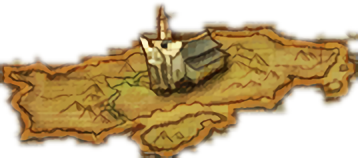
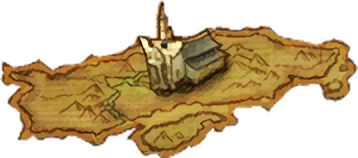
Pulse+ map: zone highlights use the game sprites' own cut-out (no spill), the Silentera tunnel gets the game's swirl marker lit on hover

Changed region(s): [[0.0, 0.0, 1.0, 1.0]]

diff --git a/launcher/src/ui/map/WorldLayer.tsx b/launcher/src/ui/map/WorldLayer.tsx
@@ -14,6 +14,7 @@ interface GlobePart { region: string; part: string; frame: [number, number, numb
 interface WorldZone {
   code: string; map_id: string | null; layer: number | null; frame: [number, number, number, number];
   highlight: [number, number, number, number] | null; highlight_file: string; label: [number, number, number, number] | null;
+  icon?: string; // a zone the coloured map has no highlight for (the Silentera tunnel): the game's marker, lit on hover
 }
 interface Region { title: string; image: string; size: [number, number]; zones: WorldZone[] }
 export const world = JSON.parse(worldJson) as { globe: { size: [number, number]; parts: GlobePart[] }; regions: Record<string, Region> };
@@ -138,7 +139,7 @@ function RegionMap({ size, region, onZone }: { size: { w: number; h: number }; r
   // under the breadcrumb (TOP), 20 px from the other edges; at most the pictures' own size (2x)
   const k = Math.min((size.w - 40) / rw, (size.h - TOP - 20) / rh, 2);
   const left = (size.w - rw * k) / 2, top = TOP + (size.h - TOP - 20 - rh * k) / 2;
-  const files = useMemo(() => [r.image, ...r.zones.map((z) => z.highlight_file).filter(Boolean)], [r]);
+  const files = useMemo(() => [r.image, ...r.zones.flatMap((z) => [z.highlight_file, z.icon ?? ""]).filter(Boolean)], [r]);
   const urls = usePictures(files);
   const masks = useMasks(urls, r.zones.map((z) => z.highlight_file).filter(Boolean));
   const [hover, setHover] = useState<string | null>(null);
@@ -169,6 +170,11 @@ function RegionMap({ size, region, onZone }: { size: { w: number; h: number }; r
           <img key={z.code} className={`world-zone-light${hover === z.code ? " on" : ""}`} src={urls[z.highlight_file]} alt="" draggable={false}
             style={{ left: left + hx * k, top: top + hy * k, width: hw * k, height: hh * k }} />
         ) : null;
+      })}
+      {r.zones.filter((z) => z.icon && urls[z.icon]).map((z) => {
+        const [fx, fy, fw, fh] = z.frame;
+        return <img key={`${z.code}-icon`} className={`world-zone-icon${hover === z.code ? " on" : ""}`} src={urls[z.icon!]} alt="" draggable={false}
+          style={{ left: left + (fx + fw / 2) * k, top: top + (fy + fh / 2) * k, width: 44 * k, height: 44 * k }} />;
       })}
       {r.zones.filter((z) => z.map_id).map((z) => {
         const [lx, ly, lw, lh] = z.label ?? z.frame;

diff --git a/launcher/src/ui/map/map.css b/launcher/src/ui/map/map.css
@@ -161,3 +161,7 @@
 .world-layer::before { content: ""; position: absolute; inset: 0; background: rgba(20, 14, 34, .45); pointer-events: none; } /* the sky dimmed, as on the site */
 .world-layer > * { position: relative; }
 .world-layer > .world-region { position: absolute; }
+.world-zone-icon { position: absolute; transform: translate(-50%, -50%); pointer-events: none; filter: drop-shadow(0 0 4px rgba(80, 200, 255, .6));
+  transition: transform var(--t) var(--ease-out), filter var(--t) var(--ease-out); }
+.world-zone-icon.on { transform: translate(-50%, -50%) scale(1.25); filter: drop-shadow(0 0 14px rgba(110, 220, 255, .95)) brightness(1.25); }
+@media (prefers-reduced-motion: reduce) { .world-zone-icon { transition: none; } }

diff --git a/tools/build_world_map.py b/tools/build_world_map.py
@@ -7,8 +7,7 @@ Sources (nothing is drawn here):
 The globe is the game's mini globe (Asmodae and Elysea lands, the Abyss and the two rims of Balaurea, «внешние земли»).
 Asmodae, Elysea and Balaurea use the game's coloured region maps (768x608, worldmap_dark/light/dragon). Their zone
 highlights have no layout in the client: each highlight is found on its map by normalised cross-correlation, named by
-the zone whose place in the newer 590 px layout (new_map_dialog) fits best, and cut to the zone's shape (the pixels the
-highlight turns yellow, its largest piece); the newer layout's buttons and name places are carried over by the same fit. The Abyss keeps its
+the zone whose place in the newer 590 px layout (new_map_dialog) fits best; the sprite is already cut to its zone; the newer layout's buttons and name places are carried over by the same fit. The Abyss keeps its
 590 px map and layout. The pictures are enlarged with the portable Waifu2x (downloads/icon_upscale, as
 tools/upscale_icons.py); without it with Lanczos.
 
@@ -30,7 +29,7 @@ import tempfile
 from pathlib import Path
 
 import numpy as np
-from PIL import Image, ImageFilter
+from PIL import Image
 
 ROOT = Path(__file__).resolve().parent.parent
 EXTRACT = ROOT / "client_extract"
@@ -51,6 +50,7 @@ REGIONS = {  # client region -> its title and the globe buttons that open it
     "abyss": ("Бездна", ["abyss"]),
     "dragon": ("Внешние земли", ["dragon1", "dragon2"]),
 }
+ICONS = {"underpass": [776, 81, 29, 30]}  # zones the coloured maps have no highlight for: their marker in the same atlas
 ABYSS_LAYERS = {"ab1_1": 1, "ab1_2": 2, "ab1_3": 3}  # the Abyss zones of the client are the layers of Reshanta
 
 
@@ -195,64 +195,9 @@ def old_region(region: str, zones: list[dict]) -> tuple[Image.Image, dict[str, t
     lights = {}
     for (crop, box), index in zip(found, chosen):
         x, y, cw, ch = box
-        piece = Image.fromarray(crop.astype(np.uint8), "RGBA")
-        piece.putalpha(zone_shape(crop[:, :, :3], base[y:y + ch, x:x + cw]))
+        piece = Image.fromarray(crop.astype(np.uint8), "RGBA")  # the game cut it to the zone already (its alpha)
         lights[targets[index]["code"]] = (piece, box)
     return Image.fromarray(base.astype(np.uint8), "RGB"), lights, params
-
-
-def largest(mask: np.ndarray) -> np.ndarray:
-    """The largest 4-connected piece of a mask."""
-    h, w = mask.shape
-    seen = np.zeros_like(mask)
-    best: list[tuple[int, int]] = []
-    for y in range(h):
-        for x in np.where(mask[y] & ~seen[y])[0]:
-            if seen[y, x]:
-                continue
-            stack, piece = [(y, x)], []
-            seen[y, x] = True
-            while stack:
-                cy, cx = stack.pop()
-                piece.append((cy, cx))
-                for ny, nx in ((cy + 1, cx), (cy - 1, cx), (cy, cx + 1), (cy, cx - 1)):
-                    if 0 <= ny < h and 0 <= nx < w and mask[ny, nx] and not seen[ny, nx]:
-                        seen[ny, nx] = True
-                        stack.append((ny, nx))
-            if len(piece) > len(best):
-                best = piece
-    out = np.zeros_like(mask)
-    if best:
-        ys, xs = zip(*best)
-        out[list(ys), list(xs)] = True
-    return out
-
-
-def fill_holes(mask: np.ndarray) -> np.ndarray:
-    """The mask with its holes filled (what the outside cannot reach)."""
-    h, w = mask.shape
-    outside = np.zeros_like(mask)
-    stack = [(y, x) for y in range(h) for x in (0, w - 1) if not mask[y, x]]
-    stack += [(y, x) for x in range(w) for y in (0, h - 1) if not mask[y, x]]
-    for y, x in stack:
-        outside[y, x] = True
-    while stack:
-        cy, cx = stack.pop()
-        for ny, nx in ((cy + 1, cx), (cy - 1, cx), (cy, cx + 1), (cy, cx - 1)):
-            if 0 <= ny < h and 0 <= nx < w and not mask[ny, nx] and not outside[ny, nx]:
-                outside[ny, nx] = True
-                stack.append((ny, nx))
-    return ~outside
-
-
-def zone_shape(crop: np.ndarray, base: np.ndarray) -> Image.Image:
-    """The zone of a highlight: the pixels it turns yellow (not what merely differs), its largest piece without holes,
-    with soft edges. The highlight crops also hold bits of the neighbours, which must not light up."""
-    yellow = lambda a: (a[..., 0] + a[..., 1]) / 2 - a[..., 2]
-    lit = (np.abs(crop - base).sum(2) > 40) & (yellow(crop) - yellow(base) > 18)
-    lit = np.array(Image.fromarray((lit * 255).astype(np.uint8)).filter(ImageFilter.MaxFilter(5)).filter(ImageFilter.MinFilter(5))) > 127
-    shape = fill_holes(largest(lit))
-    return Image.fromarray((shape * 255).astype(np.uint8)).filter(ImageFilter.GaussianBlur(1.2))
 
 
 def zone_maps() -> dict[str, str]:
@@ -311,8 +256,11 @@ def main() -> None:
                         piece, box = lights[zone["code"]]
                         zone["highlight"], zone["highlight_file"] = box, f"zone_{zone['code']}.png"
                         enlarge(piece, REGION_SCALE, tmp).save(OUT / zone["highlight_file"])
-                    else:  # no coloured highlight (the Silentera tunnel): its box opens it
+                    else:  # no coloured highlight (the Silentera tunnel): the game's swirl marks it, its box opens it
                         zone["highlight"] = None
+                        if zone["code"] in ICONS:
+                            zone["icon"] = f"zone_{zone['code']}_icon.png"
+                            enlarge(cut(f"worldmap_{region}.png", ICONS[zone["code"]]), GLOBE_SCALE, tmp).save(OUT / zone["icon"])
                 size = list(OLD_SIZE)
             else:
                 texture, rect = sk[f"new_map_region_{region}"]
